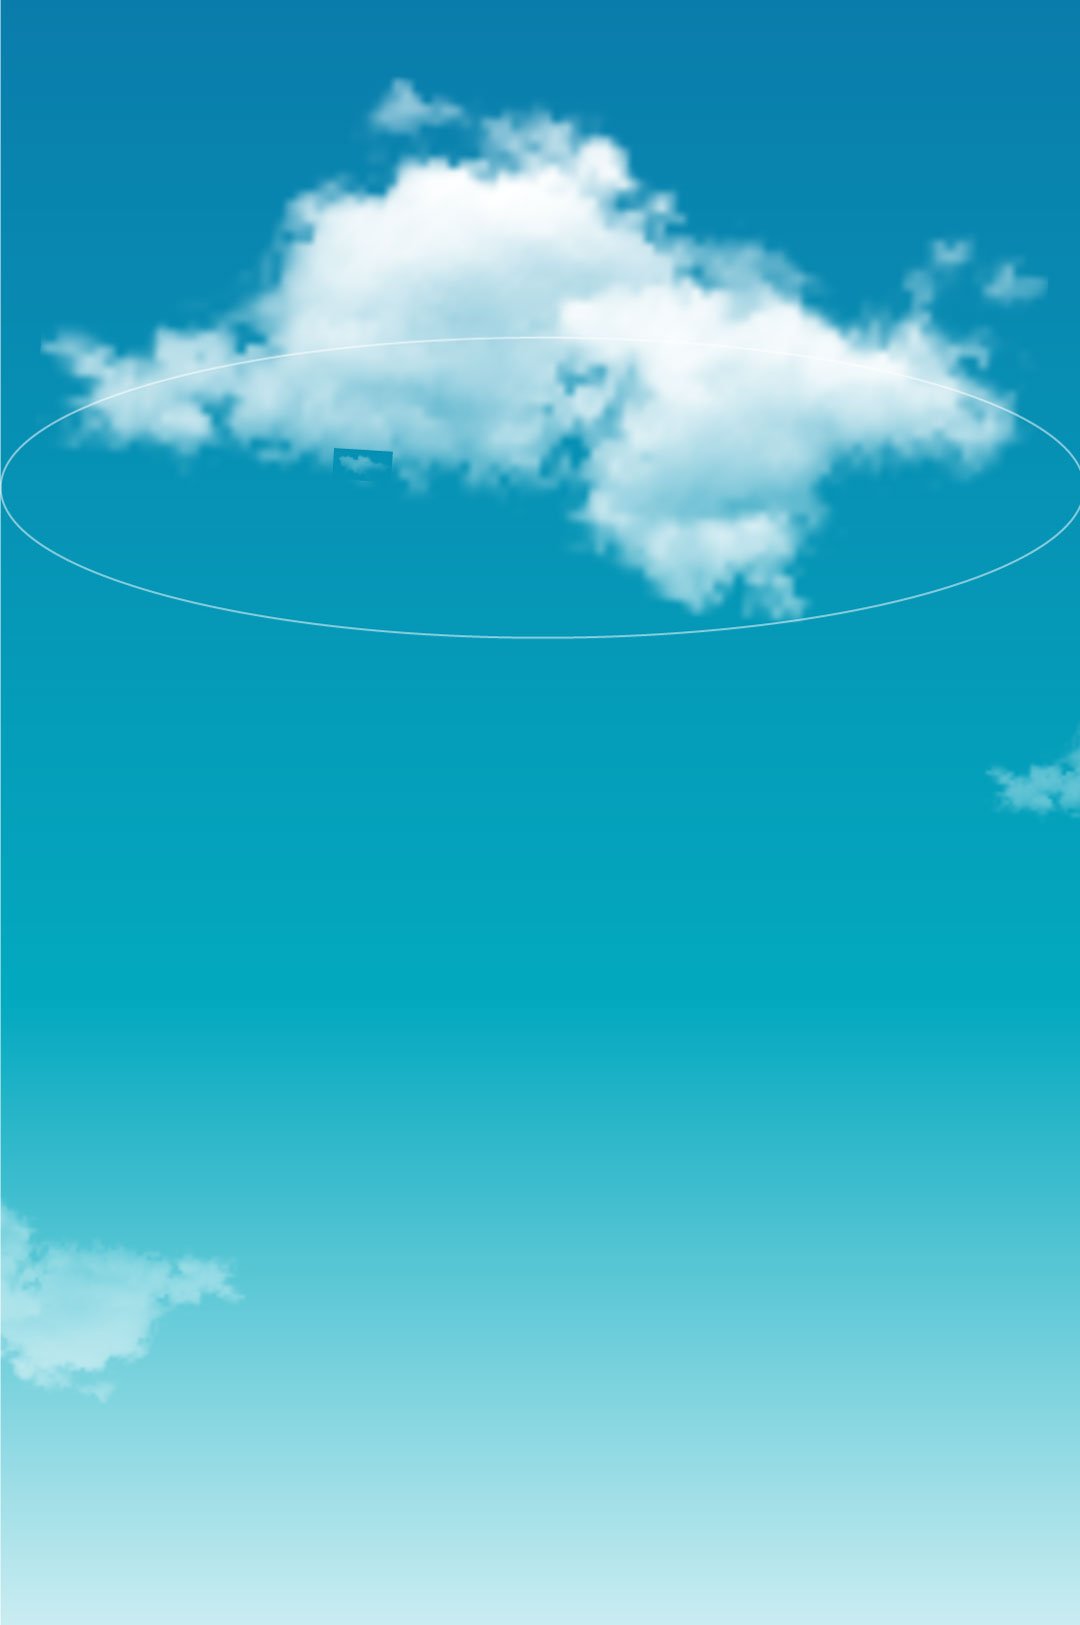
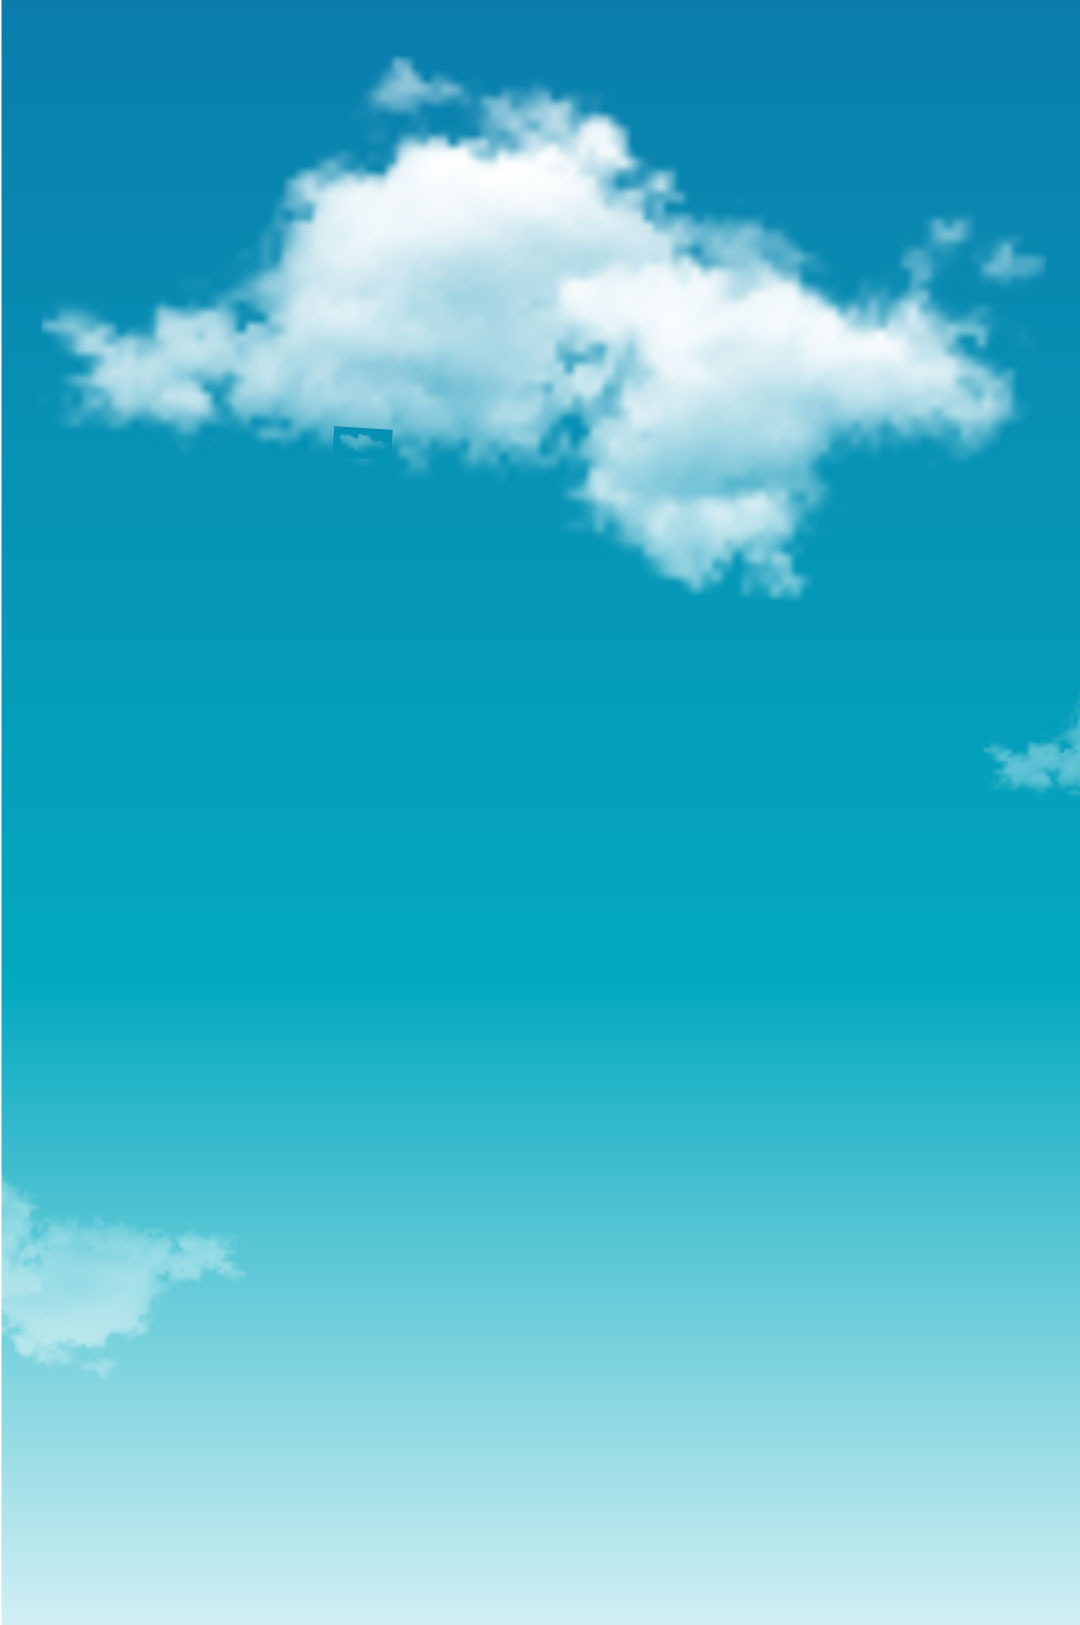
Bug 修正(畫面清單描述-0817)
Q1-b  : 旋轉少了，背後那一圈

diff --git a/DigiwinSoft/CustomViews/MRaiderCarouselView.m b/DigiwinSoft/CustomViews/MRaiderCarouselView.m
@@ -11,6 +11,7 @@
 #import "MCarouselItemView.h"
 #import "MPhenomenon.h"
 #import "MDirector.h"
+#import "MTraceLineView.h"
 
 @interface MRaiderCarouselView ()<iCarouselDataSource, iCarouselDelegate>
 
@@ -24,24 +25,30 @@
 // An empty implementation adversely affects performance during animation.
 - (void)drawRect:(CGRect)rect {
     // Drawing code
+    
+    [self clean];
     [self addBackgrouondImage];
     [self addIndustryLabel];
     [self addCarouselView];
 }
 
-- (void) addBackgrouondImage
+- (void)clean
 {
-    UIImageView* imageView = (UIImageView*)[self viewWithTag:101];
-    if(!imageView){
-        imageView = [[UIImageView alloc] initWithFrame:self.bounds];
-        imageView.image = [UIImage imageNamed:@"bg_industry_raider.jpg"];
-        [self addSubview:imageView];
+    for (UIView* view in self.subviews) {
+        [view removeFromSuperview];
     }
 }
 
+- (void) addBackgrouondImage
+{
+    UIImageView* imageView = [[UIImageView alloc] initWithFrame:self.bounds];
+    imageView.image = [UIImage imageNamed:@"bg_industry_raider.jpg"];
+    [self addSubview:imageView];}
+
 - (void) addIndustryLabel
 {
-    CGFloat y = (DEVICE_SCREEN_HEIGHT == 480) ? 60 : 100;
+    CGFloat bgHeight = DEVICE_SCREEN_HEIGHT - 64 - 49;
+    CGFloat y = (DEVICE_SCREEN_WIDTH == 320.) ? 60 : bgHeight * 0.15;
     
     UILabel* label = [[UILabel alloc] initWithFrame:CGRectMake(0, y, DEVICE_SCREEN_WIDTH, 40)];
     label.backgroundColor = [UIColor clearColor];
@@ -55,16 +62,42 @@
 - (void) addCarouselView
 {
     CGFloat bgHeight = DEVICE_SCREEN_HEIGHT - 64 - 49;
-    CGFloat y = (DEVICE_SCREEN_HEIGHT == 480) ? 140 : (bgHeight * 0.386);
-    
-    _carousel = [[iCarousel alloc] initWithFrame:CGRectMake(0, y, DEVICE_SCREEN_WIDTH, 280)]; //214 260
+    CGFloat y = bgHeight * 0.3;
+
+    _carousel = [[iCarousel alloc] initWithFrame:CGRectMake(-DEVICE_SCREEN_WIDTH*0.2, y, DEVICE_SCREEN_WIDTH*1.4, 280)]; //214 260
     _carousel.dataSource = self;
     _carousel.delegate = self;
-    _carousel.type = iCarouselTypeInvertedCylinder;
+    _carousel.type = iCarouselTypeCylinder;
     _carousel.bounceDistance = 10.;
     _carousel.backgroundColor = [UIColor clearColor];
     [self addSubview:_carousel];
+    
+    [self addTraceLine];
 }
+
+// 橢圓軌跡線
+- (void)addTraceLine
+{
+    CGRect frame = [self getTraceLineFrame];
+    MTraceLineView* view = [[MTraceLineView alloc] initWithFrame:frame];
+    view.backgroundColor = [UIColor clearColor];
+    view.center = CGPointMake(_carousel.frame.size.width/2., view.center.y);
+    [_carousel addSubview:view];
+    
+    [_carousel sendSubviewToBack:view];
+}
+
+- (CGRect)getTraceLineFrame
+{
+    if(DEVICE_SCREEN_WIDTH == 320.) // 3.5 & 4 inch
+        return CGRectMake(0, 4, 312, 63);
+    if(DEVICE_SCREEN_WIDTH == 375.) // 4.7 inch
+        return CGRectMake(0, 5, 356., 67);
+    if(DEVICE_SCREEN_WIDTH == 414.) // 5.5 inch
+        return CGRectMake(0, 4, 380., 72.);
+    return CGRectZero;
+}
+
 
 #pragma mark - iCarouselDataSource 相關
 
@@ -96,6 +129,7 @@
 //    ciview.content = [NSString stringWithFormat:@"現象%d，現象，現象", (int)index];
 //    ciview.content = @"小批量接單沒好配套，呆滯急遽增加";
 //    ciview.content = @"現代的個人出版到各類紀念冊甚至是攝影集的製作，都可以進行少量且高品質的印刷，其印製的效率與品質也逐年進步。";
+//    ciview.content = @"";
     
     ciview.onFacus = (index == carousel.currentItemIndex);
     [ciview setNeedsDisplay];
@@ -124,7 +158,6 @@
 - (void)carouselCurrentItemIndexDidChange:(iCarousel *)carousel
 {
     NSInteger index = carousel.currentItemIndex;
-    
     NSInteger leftIndex = index - 1;
     if(leftIndex < 0)
         leftIndex = 10 - 1;

diff --git a/DigiwinSoft/MTraceLineView.m b/DigiwinSoft/MTraceLineView.m
@@ -1,0 +1,27 @@
+//
+//  MTraceLineView.m
+//  DigiwinSoft
+//
+//  Created by Jyun on 2015/8/19.
+//  Copyright (c) 2015年 Jyun. All rights reserved.
+//
+
+#import "MTraceLineView.h"
+
+@implementation MTraceLineView
+
+- (void)drawRect:(CGRect)rect
+{
+    CGContextRef context = UIGraphicsGetCurrentContext();
+    CGContextSetLineWidth(context, 1);
+    CGContextSetStrokeColorWithColor(context, [UIColor whiteColor].CGColor);
+    CGContextSetFillColorWithColor(context, [UIColor redColor].CGColor);
+    
+//    CGContextAddRect(context, rect);
+//    CGContextFillPath(context);
+    
+    CGContextAddEllipseInRect(context, rect);
+    CGContextStrokePath(context);
+}
+
+@end

diff --git a/DigiwinSoft/我的任務/MReportViewController.m b/DigiwinSoft/我的任務/MReportViewController.m
@@ -160,7 +160,7 @@
     
     // create date
     NSDateFormatter* fm = [NSDateFormatter new];
-    fm.dateFormat = @"yyyy-MM-dd";
+    fm.dateFormat = @"yyyy-MM-dd HH:mm:ss";
     _report.create_date = [fm stringFromDate:[NSDate date]];
     
 

diff --git a/DigiwinSoft/MTraceLineView.h b/DigiwinSoft/MTraceLineView.h
@@ -1,0 +1,13 @@
+//
+//  MTraceLineView.h
+//  DigiwinSoft
+//
+//  Created by Jyun on 2015/8/19.
+//  Copyright (c) 2015年 Jyun. All rights reserved.
+//
+
+#import <UIKit/UIKit.h>
+
+@interface MTraceLineView : UIView
+
+@end
